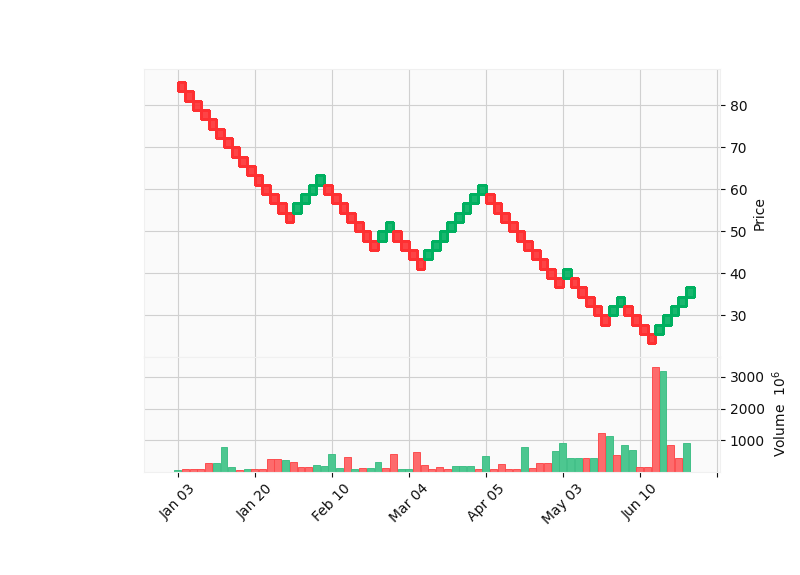
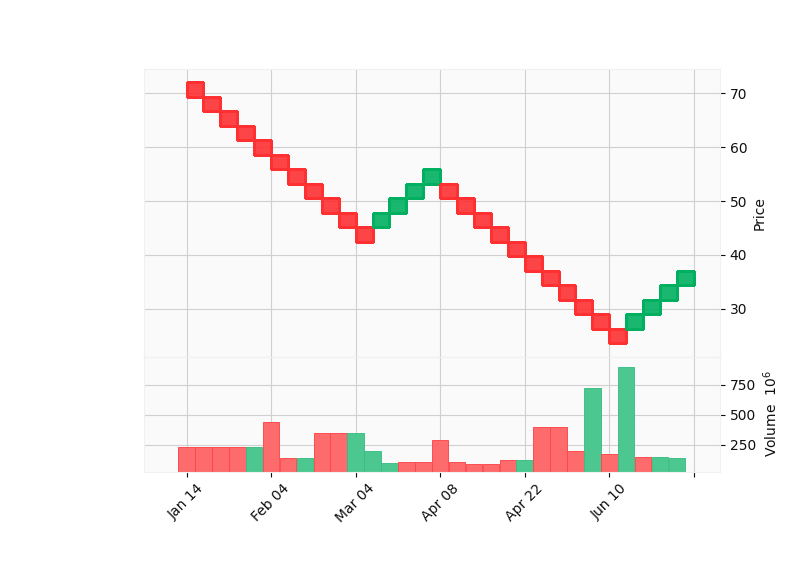
Fixed problem with weekly ytd charts

diff --git a/make_charts.py b/make_charts.py
@@ -48,7 +48,8 @@ def make_chart(data_plt, series="TQQQ", type="DAILY_YTD"):
         start_date = pd.to_datetime(str(data_plt['Date'].max().year))
     elif type=="WEEKLY_YTD":
         start_date = pd.to_datetime(str(data_plt['Date'].max().year))
-        data_plt.groupby(data_plt['Date'].dt.week, as_index=False).last()
+        data_plt = data_plt.groupby(
+            data_plt['Date'].dt.week, as_index=False).last()
     elif type == "DAILY_MONTH":
         start_date = data_plt['Date'].max() - relativedelta(months=1)
     elif type == "DAILY_WEEK":
